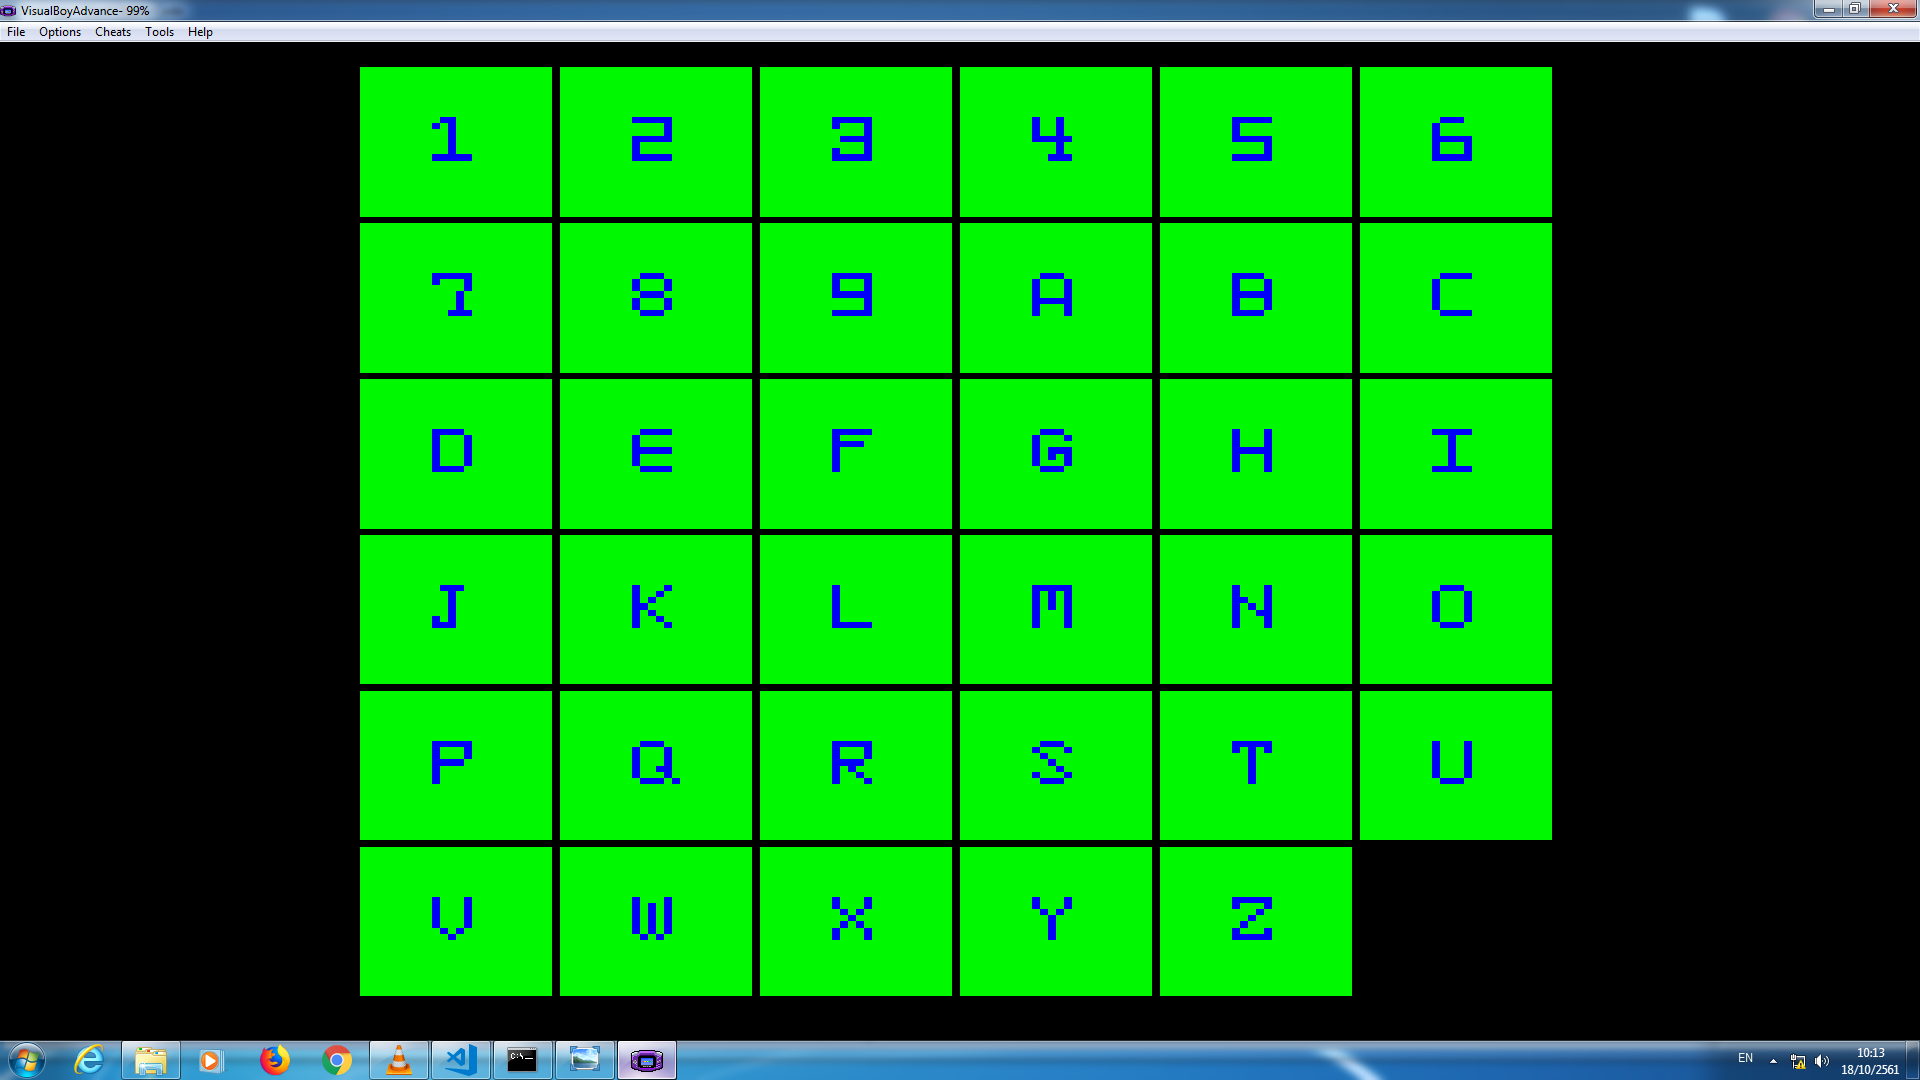
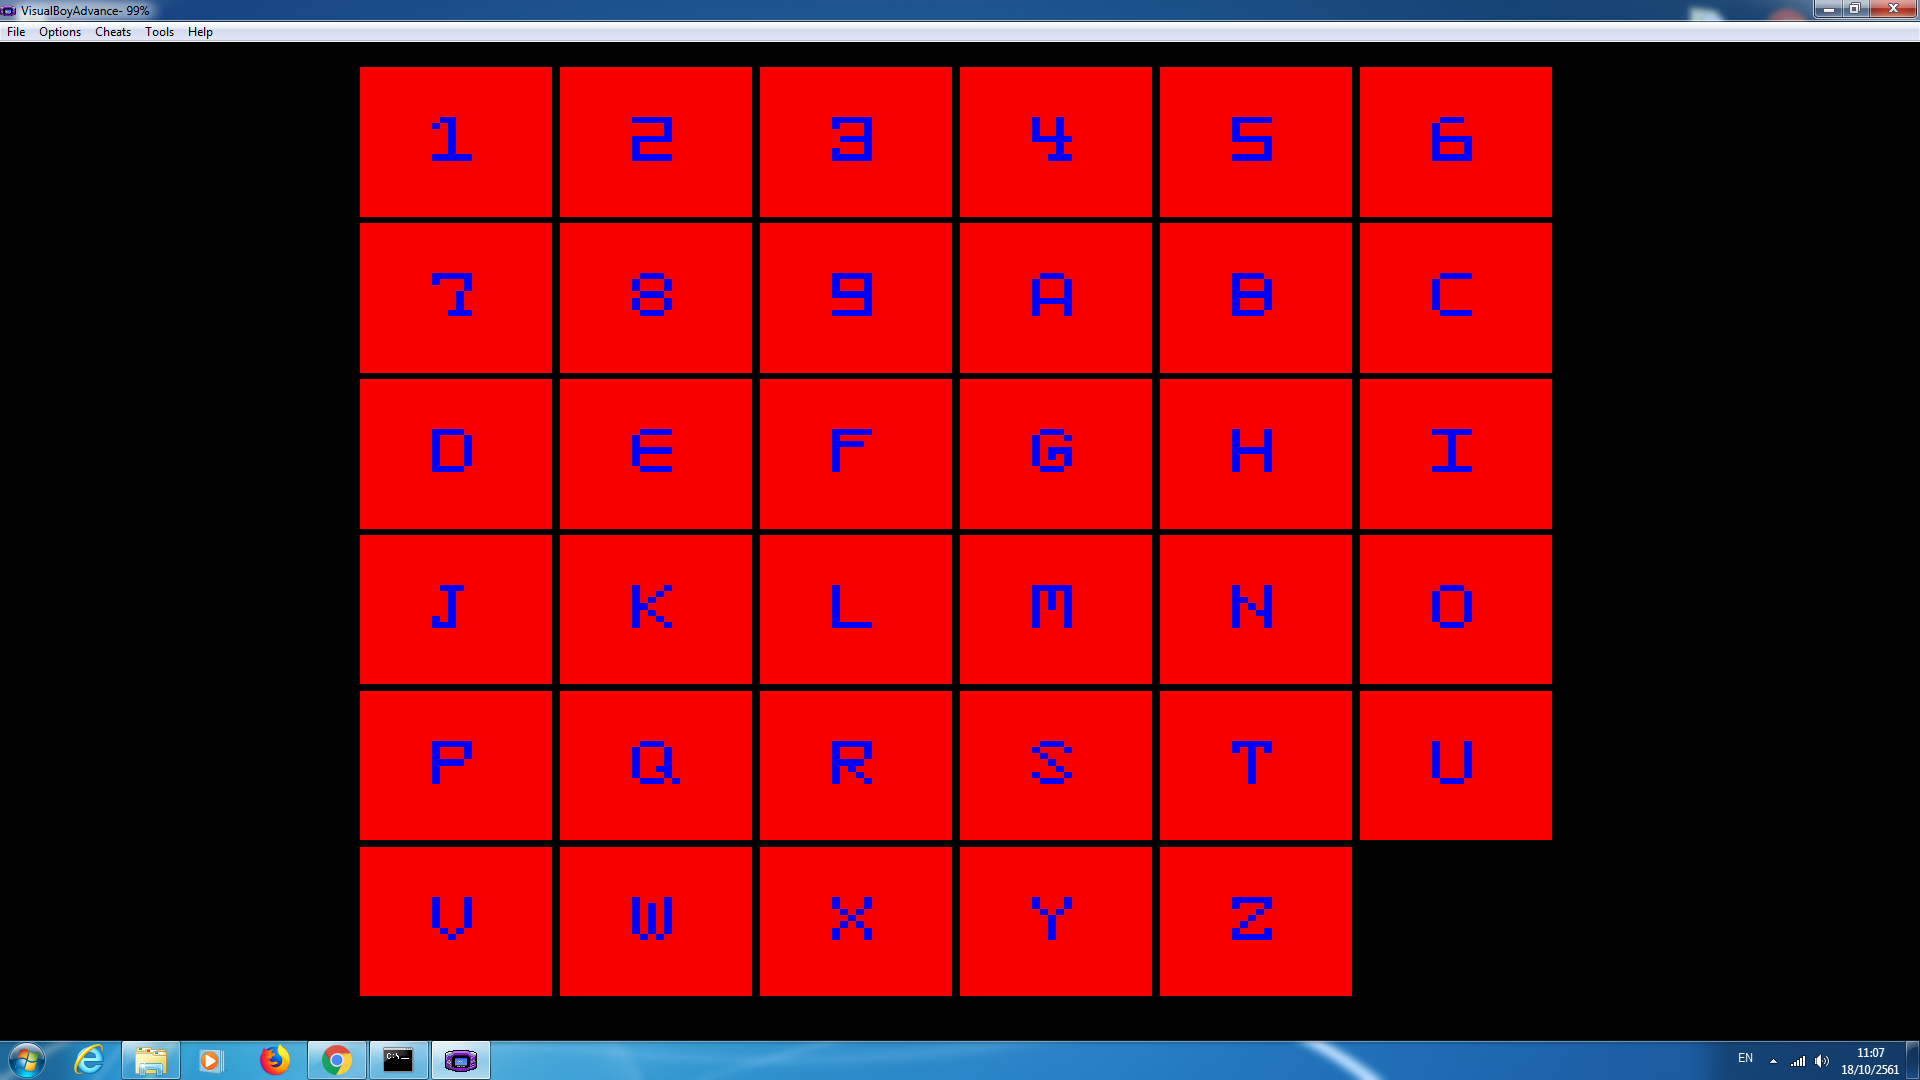
modified:   main.cpp 	modified:   res/complete-slider.png 	modified:   res/slider.png 	modified:   rom/slider.gba

diff --git a/main.cpp b/main.cpp
@@ -53,7 +53,7 @@ static constexpr const Color BOXCOLOR  {31,0,0};
 static constexpr const Color IBOXCOLOR {0,31,0};
 static constexpr const Color NUMCOLOR  {0,0,31};
 
-static constexpr const Color COMBOXCOLOR  = IBOXCOLOR;
+static constexpr const Color COMBOXCOLOR  = BOXCOLOR;
 static constexpr const Color COMIBOXCOLOR = COMBOXCOLOR;
 static constexpr const Color COMNUMCOLOR  = NUMCOLOR;
 
